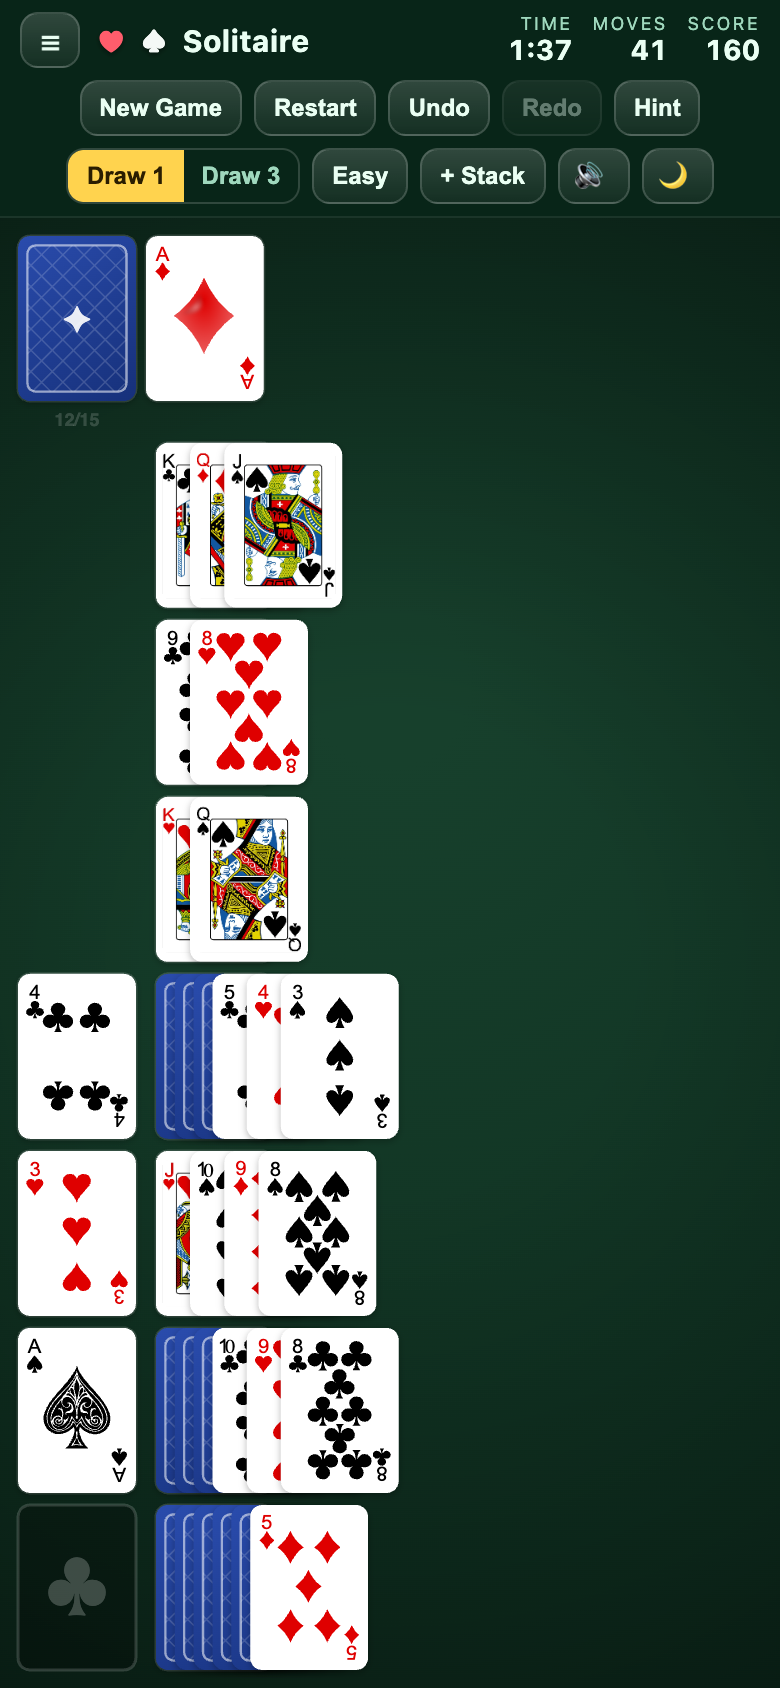
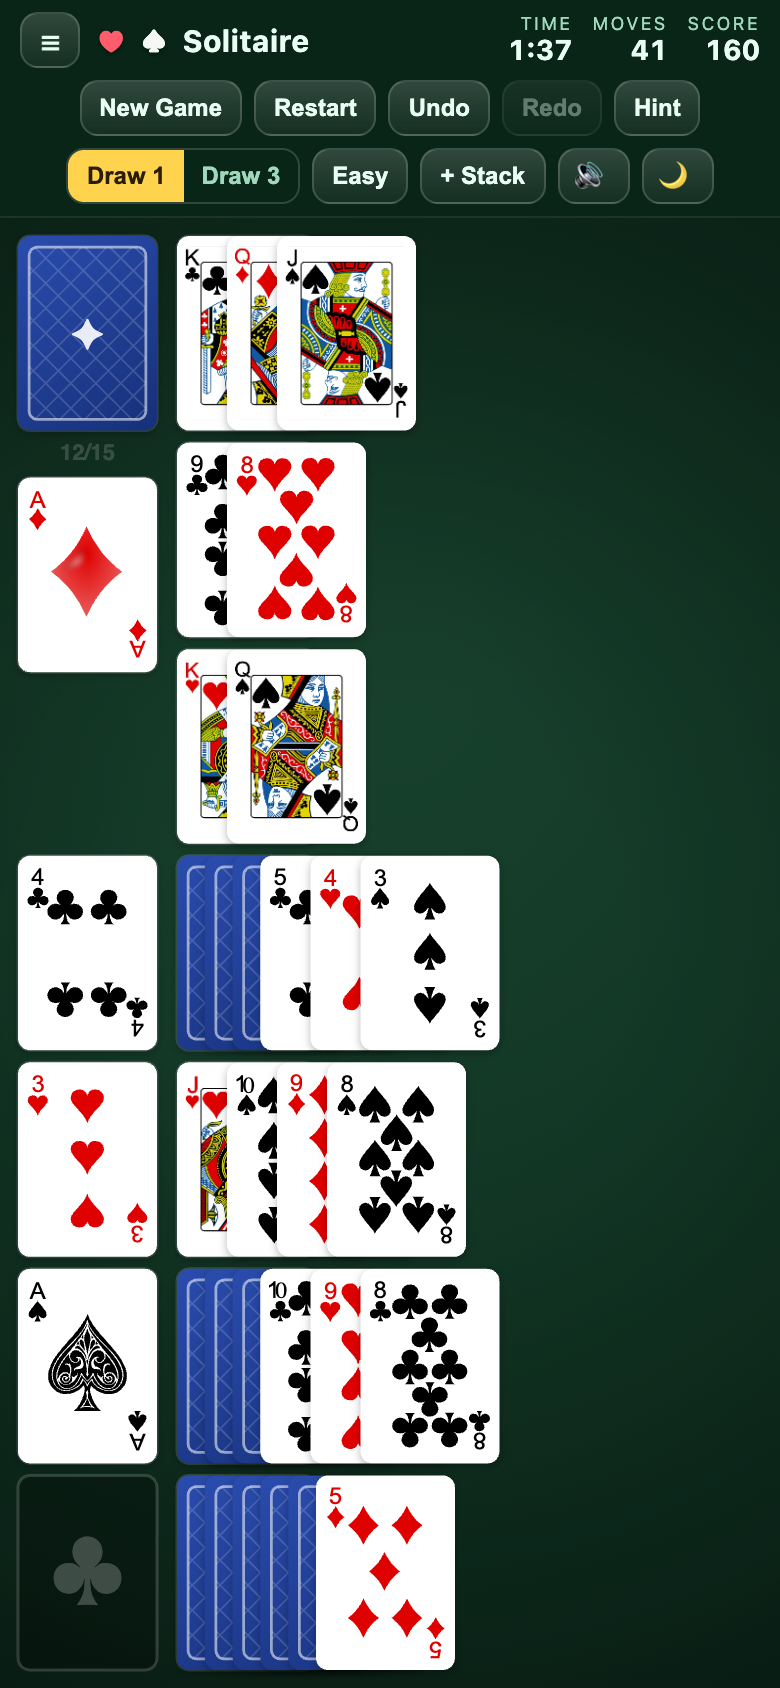
Give the phone board a left rail, and the rows the full height
The portrait board looked half-finished: a void in the left column beside the top
three rows, the deepest row reaching only ~51% of the width, and cards smaller than
the screen allowed. All three came from the same shape — foundations anchored to the
bottom four rows, and a stock/waste header dividing the height one extra way.

verticalLayout is now the transpose of the landscape board: stock, waste and the four
foundations run down a rail on the left, where landscape puts them in a top row, and
the seven tableau rows each get a full-height slot beside it. Cards go 58.9 -> 69.5px
wide at 390x844 (+18%), rows use 62% of the width at deal time and 80% mid-game, and
the rail holds six piles with no gap above them.

Three things the rail forced:

- The draw-3 waste fan had to follow the fan axis. At x = margin a rightward fan runs
  over the tableau rows, so Layout.wasteFanDX became wasteFan: Point — right in
  landscape, down the rail in portrait.
- The waste sits COUNTER_GAP below the stock so drawStockCounter still has room for
  the drawn/total tally; the slack slot below it is where the fan hangs.
- Portrait fans step along the card's *width*, the narrow dimension, so the shared
  constants revealed ~30% less than a column fan does — which is why the face-down
  cards read as one blue blob. The rows have their own steps now.

Width-bound boards (390x844 among them) were also leaving ~21px dead at the bottom;
[…]

Changed region(s): [[0.0, 0.1232, 0.6462, 1.0]]

diff --git a/src/layout.ts b/src/layout.ts
@@ -27,8 +27,10 @@ export interface Layout {
   /** Spacing between fanned tableau cards, along the fan axis. */
   faceDownStep: number;
   faceUpStep: number;
-  /** Horizontal fan spacing for the waste pile (draw-3). */
-  wasteFanDX: number;
+  /** Per-card offset for the draw-3 waste fan. Follows the board's fan axis: right
+   *  on the landscape board, down the phone-portrait rail (where fanning right would
+   *  run over the tableau rows). */
+  wasteFan: Point;
   /** Max coordinate (y, or x when fanX) a tableau fan may reach before the
    *  steps are compressed. */
   fanLimit: number;
@@ -44,6 +46,12 @@ const COLS = 7;
 const FACE_DOWN_STEP = 0.16;
 const FACE_UP_STEP = 0.29;
 const TOP_GAP = 0.26; // gap between the top row and the tableau
+
+// The portrait board fans along the card's *width*, the narrow dimension, so the
+// same fractions would reveal ~30% less of each card than a column fan does. These
+// match what landscape shows; the rail layout has the room for them.
+const ROW_FACE_DOWN_STEP = 0.2;
+const ROW_FACE_UP_STEP = 0.36;
 
 // Fan room a column is sized to hold before `columnOffsets` has to compress it:
 // its 6 face-down cards plus this many face-up ones. Reserving the true worst
@@ -61,8 +69,17 @@ const MAX_EXTRA_GAP = 0.12;
 const SPARE_ROW_FAN = 0.5; // fan room reserved below the spare row's cards
 const SPARE_ROW_GAP = 0.12; // gap between the tableau limit and the spare row
 
-// Clearance under the stock for the drawn/total counter (fanX header).
+// Clearance under the stock for the drawn/total counter, as a fraction of card
+// height: how far down the portrait rail the waste sits below the stock, so
+// `render.ts`'s drawStockCounter has somewhere to put the tally.
 const COUNTER_GAP = 0.18;
+
+/** Per-card offset of the draw-3 waste fan down the portrait rail. */
+const RAIL_WASTE_FAN = 0.22;
+
+/** Cap on the breathing room a width-bound portrait board adds between rows, as a
+ *  fraction of card height; the rest is centred. */
+const MAX_ROW_GAP = 0.18;
 
 export function computeLayout(width: number, height: number, spareCount = 0): Layout {
   if (width < 520 && height > width) return verticalLayout(width, height, spareCount);
@@ -147,25 +164,26 @@ export function computeLayout(width: number, height: number, spareCount = 0): La
     spares,
     faceDownStep: cardH * FACE_DOWN_STEP,
     faceUpStep: cardH * FACE_UP_STEP,
-    wasteFanDX: cardW * 0.28,
+    wasteFan: { x: cardW * 0.28, y: 0 },
     fanLimit,
     spareFanLimit: height - margin,
   };
 }
 
-/** Phone-portrait board: piles are listed vertically and cards fan to the
- *  right — stock + waste header on top, foundations down the left edge, and
- *  the tableau (plus any spare stacks) as rows beside them. */
+/** Phone-portrait board: the transpose of the landscape one. Stock, waste and the
+ *  four foundations run down a rail on the left — where landscape puts them in a top
+ *  row — and the tableau (plus any spare stacks) are rows beside it, fanning right.
+ *  The rows own the full height: a header above them would divide the height one more
+ *  way and shrink every card, and leave a void in the rail beside the top rows. */
 function verticalLayout(width: number, height: number, spareCount: number): Layout {
   const margin = Math.max(8, Math.round(height * 0.012));
   const gapX = Math.max(5, Math.round(width * 0.012));
-  const gapY = Math.max(5, Math.round(height * 0.008));
+  let gapY = Math.max(5, Math.round(height * 0.008));
 
-  // The header (one card + counter clearance) and the pile rows must fit the
-  // height; very squat screens fall back to a width cap that keeps a couple
-  // of card-widths of fan room per row.
+  // One slot per row, filling the height. Narrow-tall screens fall back to a width
+  // cap that keeps a couple of card-widths of fan room per row.
   const rows = COLS + spareCount;
-  let cardH = (height - margin * 2 - rows * gapY) / (rows + 1 + COUNTER_GAP);
+  let cardH = (height - margin * 2 - (rows - 1) * gapY) / rows;
   let cardW = cardH / CARD_RATIO;
   const maxCardW = (width - margin * 2 - gapX * 2) / 4.6;
   if (cardW > maxCardW) {
@@ -173,12 +191,23 @@ function verticalLayout(width: number, height: number, spareCount: number): Layo
     cardH = cardW * CARD_RATIO;
   }
 
-  const topY = margin;
-  const rowY0 = topY + cardH * (1 + COUNTER_GAP) + gapY;
-  const rowY = (i: number) => rowY0 + i * (cardH + gapY);
+  // A width-bound board has height to spare: spread it into the row gaps, up to a
+  // point, and centre whatever is left over. Either way there's no void at the
+  // bottom, and on a height-bound board there's no slack to begin with.
+  let slack = height - margin * 2 - rows * cardH - (rows - 1) * gapY;
+  if (slack > 0) {
+    const extra = Math.min(slack / (rows - 1), cardH * MAX_ROW_GAP);
+    gapY += extra;
+    slack -= extra * (rows - 1);
+  }
+
+  const topY = margin + Math.max(0, slack / 2);
+  const rowY = (i: number) => topY + i * (cardH + gapY);
   const rowX = margin + cardW + gapX * 2;
 
-  // Foundations sit beside the bottom four rows, flush with the board's end.
+  // The rail: stock, waste, then the foundations flush with the board's end. Six
+  // piles in seven-plus slots, so the slack sits between the waste and the
+  // foundations — which is also where the waste's draw-3 fan hangs.
   const foundations: Point[] = [];
   for (let i = 0; i < 4; i++) foundations.push({ x: margin, y: rowY(rows - 4 + i) });
   const tableau: Point[] = [];
@@ -193,14 +222,15 @@ function verticalLayout(width: number, height: number, spareCount: number): Layo
     cardH,
     radius: Math.max(6, cardW * 0.075),
     fanX: true,
-    stock: { x: margin, y: topY },
-    waste: { x: margin + cardW + gapX, y: topY },
+    stock: { x: margin, y: rowY(0) },
+    // Pushed clear of the drawn/total tally under the stock.
+    waste: { x: margin, y: rowY(1) + cardH * COUNTER_GAP },
     foundations,
     tableau,
     spares,
-    faceDownStep: cardW * FACE_DOWN_STEP,
-    faceUpStep: cardW * FACE_UP_STEP,
-    wasteFanDX: cardW * 0.28,
+    faceDownStep: cardW * ROW_FACE_DOWN_STEP,
+    faceUpStep: cardW * ROW_FACE_UP_STEP,
+    wasteFan: { x: 0, y: cardH * RAIL_WASTE_FAN },
     fanLimit: width - margin,
     spareFanLimit: width - margin,
   };

diff --git a/src/layout.test.ts b/src/layout.test.ts
@@ -85,6 +85,37 @@ describe("computeLayout — phone portrait", () => {
     expect(l.foundations[0].x).toBeLessThan(l.tableau[0].x);
   });
 
+  it("runs stock, waste and foundations down one rail", () => {
+    const l = PHONE();
+    expect(new Set([l.stock.x, l.waste.x, ...l.foundations.map((p) => p.x)]).size).toBe(1);
+    expect(l.stock.y).toBeLessThan(l.waste.y);
+    expect(l.waste.y).toBeLessThan(l.foundations[0].y);
+  });
+
+  it("gives the rows the full height, with no header above them", () => {
+    for (const [w, h] of [[390, 844], [360, 780], [320, 568], [320, 900]] as [number, number][]) {
+      const l = computeLayout(w, h);
+      // The first row starts level with the stock: no header row to sit under.
+      expect(l.tableau[0].y, `${w}x${h}`).toBeCloseTo(l.stock.y, 5);
+      // Any leftover height is split top and bottom, never dumped at the end.
+      const bottom = l.tableau[6].y + l.cardH;
+      expect(h - bottom, `${w}x${h}`).toBeCloseTo(l.tableau[0].y, 0);
+    }
+  });
+
+  it("leaves room under the stock for the drawn/total tally", () => {
+    const l = PHONE();
+    expect(l.waste.y).toBeGreaterThanOrEqual(l.stock.y + l.cardH);
+  });
+
+  it("fans the waste down the rail, not across the rows", () => {
+    const l = PHONE();
+    expect(l.wasteFan.x).toBe(0);
+    expect(l.wasteFan.y).toBeGreaterThan(0);
+    // Three drawn cards must stay clear of the first foundation below them.
+    expect(l.waste.y + 2 * l.wasteFan.y + l.cardH).toBeLessThanOrEqual(l.foundations[0].y);
+  });
+
   it("stays on the vertical board only while narrow and taller than wide", () => {
     expect(computeLayout(519, 900).fanX).toBe(true);
     expect(computeLayout(520, 900).fanX).toBe(false); // wide enough for columns

diff --git a/src/render.ts b/src/render.ts
@@ -545,8 +545,9 @@ export class Renderer {
     for (let i = 0; i < wasteFan; i++) {
       const card = game.waste[startFan + i];
       if (hidden(card)) continue;
-      const wx = layout.waste.x + i * layout.wasteFanDX;
-      this.drawCard(ctx, card, wx, layout.waste.y, layout);
+      const wx = layout.waste.x + i * layout.wasteFan.x;
+      const wy = layout.waste.y + i * layout.wasteFan.y;
+      this.drawCard(ctx, card, wx, wy, layout);
     }
 
     // Temp parking stacks: each renders like an extra tableau pile.
@@ -648,7 +649,10 @@ export class Renderer {
         return layout.stock;
       case "waste": {
         const fan = Math.min(game.drawCount - 1, Math.max(0, game.waste.length - 1));
-        return { x: layout.waste.x + fan * layout.wasteFanDX, y: layout.waste.y };
+        return {
+          x: layout.waste.x + fan * layout.wasteFan.x,
+          y: layout.waste.y + fan * layout.wasteFan.y,
+        };
       }
       case "foundation":
         return layout.foundations[id.index];

diff --git a/src/positions.ts b/src/positions.ts
@@ -26,7 +26,10 @@ export function cardPos(
       const len = game.waste.length;
       const fanStart = Math.max(0, len - game.drawCount);
       const fanIndex = Math.max(0, index - fanStart);
-      return { x: layout.waste.x + fanIndex * layout.wasteFanDX, y: layout.waste.y };
+      return {
+        x: layout.waste.x + fanIndex * layout.wasteFan.x,
+        y: layout.waste.y + fanIndex * layout.wasteFan.y,
+      };
     }
     case "foundation":
       return { ...layout.foundations[id.index] };

diff --git a/CLAUDE.md b/CLAUDE.md
@@ -115,6 +115,16 @@ logic, rendering, animation, and input kept cleanly separated.
   Leftover width goes into the gutters (`MAX_EXTRA_GAP`) so the row spreads over
   the table. Raising the reserve shrinks the cards *everywhere* — that's what
   made the board a small huddle of cards in the middle of empty felt.
+- **The portrait board is the landscape one transposed.** `verticalLayout` runs
+  stock, waste and the foundations down a **rail** at the left — landscape's top
+  row — and gives the tableau rows the full height, one slot each. A header above
+  the rows would divide the height one more way (shrinking every card ~18%) and
+  leave a void in the rail beside the top rows. Consequences to keep: the waste sits
+  `COUNTER_GAP` below the stock so `drawStockCounter` has room; `wasteFan` runs
+  *down* the rail, since fanning right would cross the rows; the row fan steps are
+  their own constants (`ROW_FACE_*`), because a fraction of the card's *width*
+  reveals less than the same fraction of its height; and width-bound boards spread
+  leftover height into the row gaps up to `MAX_ROW_GAP`, then centre the rest.
 - **The ☰ toggle only exists when the bar wraps.** `updateChromeToggle` measures
   the real layout — a box is on one row exactly when it's no taller than its
   tallest child — and adds `#toolbar.needs-toggle`. It measures with the button

diff --git a/README.md b/README.md
@@ -101,10 +101,12 @@ Two independent assists live in the toolbar:
 ## Phone layout
 
 On phone-sized portrait screens the board transposes to fit the tall, narrow
-viewport: the stock and waste form a header, the foundations run down the left
-edge (anchored to the bottom), and the tableau piles become rows that fan
-rightward — with larger, easier-to-tap cards than squeezing seven columns
-side-by-side. Rotating the phone switches back to the classic column layout.
+viewport — it's the landscape board rotated. Stock, waste and the four
+foundations run down a **rail** on the left, where landscape puts them in a top
+row, and the seven tableau piles become rows beside it that fan rightward. The
+rows own the full height rather than sitting under a header, which is what keeps
+the cards large and easy to tap instead of squeezing seven columns side-by-side.
+Rotating the phone switches back to the classic column layout.
 
 <img src="screenshots/iphone.png" alt="Phone-portrait layout" width="340">
 
